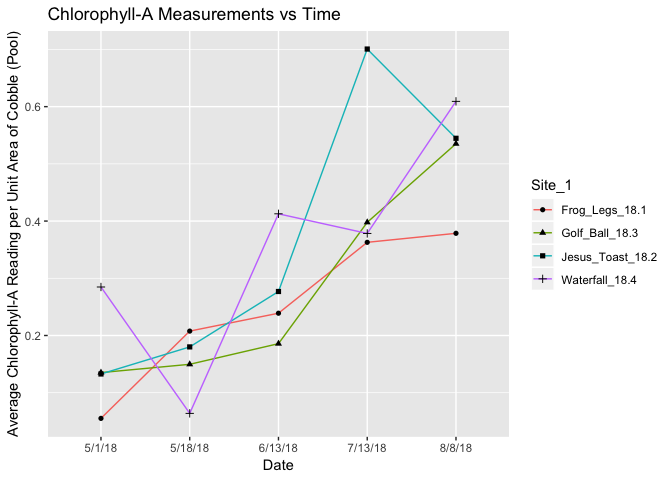
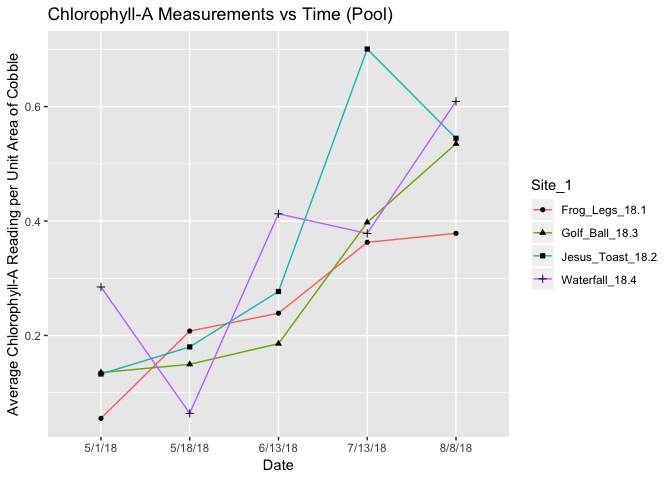
cleaning summary data

Changed region(s): [[0.0, 0.0625, 0.0312, 0.9062], [0.5, 0.0, 0.5938, 0.0625]]

diff --git a/SRF-2018-Code.md b/SRF-2018-Code.md
@@ -26,13 +26,13 @@ library(readr)
 library(tidyverse)
 ```
 
-    ## ── Attaching packages ───────────────────────────────────────────────────────────── tidyverse 1.2.1 ──
+    ## ── Attaching packages ───────────────────────────────────────────────────────────────── tidyverse 1.2.1 ──
 
     ## ✔ ggplot2 3.0.0     ✔ purrr   0.2.5
     ## ✔ tibble  1.4.2     ✔ stringr 1.3.1
     ## ✔ tidyr   0.8.1     ✔ forcats 0.3.0
 
-    ## ── Conflicts ──────────────────────────────────────────────────────────────── tidyverse_conflicts() ──
+    ## ── Conflicts ──────────────────────────────────────────────────────────────────── tidyverse_conflicts() ──
     ## ✖ dplyr::filter() masks stats::filter()
     ## ✖ dplyr::lag()    masks stats::lag()
 
@@ -76,41 +76,20 @@ ChlA_Data_Porter
     ## #   Total_Chla_extracted <dbl>, Total_Chla_in_Sample <dbl>,
     ## #   Chla_area <dbl>, Cobble_Area <dbl>, Notes <chr>
 
-Summarized ChlA Data (Pool)
----------------------------
+Summarized ChlA Data
+--------------------
 
 ``` r
 Summarized_ChlA_Data_Pool <- ChlA_Data_Porter %>%
   filter(Pool_or_Riffle == "pool") %>%
   group_by(Date_collected, Site_1) %>%
   summarise(mean_ChlA_area = mean(Chla_area))
-Summarized_ChlA_Data_Pool
-```
 
-    ## # A tibble: 20 x 3
-    ## # Groups:   Date_collected [?]
-    ##    Date_collected Site_1           mean_ChlA_area
-    ##    <chr>          <chr>                     <dbl>
-    ##  1 5/1/18         Frog_Legs_18.1           0.0551
-    ##  2 5/1/18         Golf_Ball_18.3           0.135 
-    ##  3 5/1/18         Jesus_Toast_18.2         0.133 
-    ##  4 5/1/18         Waterfall_18.4           0.285 
-    ##  5 5/18/18        Frog_Legs_18.1           0.208 
-    ##  6 5/18/18        Golf_Ball_18.3           0.150 
-    ##  7 5/18/18        Jesus_Toast_18.2         0.180 
-    ##  8 5/18/18        Waterfall_18.4           0.0639
-    ##  9 6/13/18        Frog_Legs_18.1           0.239 
-    ## 10 6/13/18        Golf_Ball_18.3           0.186 
-    ## 11 6/13/18        Jesus_Toast_18.2         0.277 
-    ## 12 6/13/18        Waterfall_18.4           0.413 
-    ## 13 7/13/18        Frog_Legs_18.1           0.363 
-    ## 14 7/13/18        Golf_Ball_18.3           0.398 
-    ## 15 7/13/18        Jesus_Toast_18.2         0.701 
-    ## 16 7/13/18        Waterfall_18.4           0.378 
-    ## 17 8/8/18         Frog_Legs_18.1           0.379 
-    ## 18 8/8/18         Golf_Ball_18.3           0.535 
-    ## 19 8/8/18         Jesus_Toast_18.2         0.545 
-    ## 20 8/8/18         Waterfall_18.4           0.609
+Summarized_ChlA_Data_Riffle <- ChlA_Data_Porter %>%
+  filter(Pool_or_Riffle == "riffle") %>%
+  group_by(Date_collected, Site_1) %>%
+  summarise(mean_ChlA_area = mean(Chla_area))
+```
 
 Plotting ChlA vs Time (Pool)
 ----------------------------
@@ -120,59 +99,27 @@ ChlA_Graph_Pool <- Summarized_ChlA_Data_Pool %>%
   ggplot(aes(x = Date_collected, y = mean_ChlA_area)) +
   geom_line(aes(group = Site_1, color = Site_1)) +
   geom_point(aes(shape = Site_1)) +
-  labs(x = "Date", y = "Average Chlorophyll-A Reading per Unit Area of Cobble (Pool)") +
-  ggtitle("Chlorophyll-A Measurements vs Time")
+  labs(x = "Date", y = "Average Chlorophyll-A Reading per Unit Area of Cobble") +
+  ggtitle("Chlorophyll-A Measurements vs Time (Pool)")
 ChlA_Graph_Pool
 ```
 
 ![](SRF-2018-Code_files/figure-markdown_github/unnamed-chunk-4-1.png)
 
-Summarized ChlA Data (Riffe)
-----------------------------
-
-``` r
-Summarized_ChlA_Data_Pool <- ChlA_Data_Porter %>%
-  filter(Pool_or_Riffle == "riffle") %>%
-  group_by(Date_collected, Site_1) %>%
-  summarise(mean_ChlA_area = mean(Chla_area))
-Summarized_ChlA_Data_Pool
-```
-
-    ## # A tibble: 16 x 3
-    ## # Groups:   Date_collected [?]
-    ##    Date_collected Site_1           mean_ChlA_area
-    ##    <chr>          <chr>                     <dbl>
-    ##  1 5/1/18         Frog_Legs_18.1           0.724 
-    ##  2 5/1/18         Golf_Ball_18.3           0.325 
-    ##  3 5/1/18         Jesus_Toast_18.2         0.284 
-    ##  4 5/1/18         Waterfall_18.4           0.125 
-    ##  5 5/18/18        Frog_Legs_18.1           0.281 
-    ##  6 5/18/18        Golf_Ball_18.3           0.0815
-    ##  7 5/18/18        Jesus_Toast_18.2         0.135 
-    ##  8 5/18/18        Waterfall_18.4           0.108 
-    ##  9 6/13/18        Frog_Legs_18.1           0.234 
-    ## 10 6/13/18        Golf_Ball_18.3           0.341 
-    ## 11 6/13/18        Jesus_Toast_18.2         0.323 
-    ## 12 6/13/18        Waterfall_18.4           0.0853
-    ## 13 7/13/18        Frog_Legs_18.1           0.261 
-    ## 14 7/13/18        Golf_Ball_18.3           0.371 
-    ## 15 7/13/18        Jesus_Toast_18.2         0.392 
-    ## 16 7/13/18        Waterfall_18.4           0.200
-
 Plotting ChlA vs Time (Riffle)
 ------------------------------
 
 ``` r
-ChlA_Graph_Pool <- Summarized_ChlA_Data_Pool %>%
+ChlA_Graph_Riffle <- Summarized_ChlA_Data_Riffle %>%
   ggplot(aes(x = Date_collected, y = mean_ChlA_area)) +
   geom_line(aes(group = Site_1, color = Site_1)) +
   geom_point(aes(shape = Site_1)) +
-  labs(x = "Date", y = "Average Chlorophyll-A Reading per Unit Area of Cobble (Riffle)") +
-  ggtitle("Chlorophyll-A Measurements vs Time")
-ChlA_Graph_Pool
+  labs(x = "Date", y = "Average Chlorophyll-A Reading per Unit Area of Cobble") +
+  ggtitle("Chlorophyll-A Measurements vs Time (Riffle)")
+ChlA_Graph_Riffle
 ```
 
-![](SRF-2018-Code_files/figure-markdown_github/unnamed-chunk-6-1.png)
+![](SRF-2018-Code_files/figure-markdown_github/unnamed-chunk-5-1.png)
 
 AFD Data
 ========
@@ -228,33 +175,13 @@ Summarized_AFD_Data_Pool <- AFD_Data_Porter %>%
   filter(!AFD_Weight_g == "NA") %>%
   group_by(Date_collected, Site_1) %>%
   summarise(mean_diff = mean(Difference))
-Summarized_AFD_Data_Pool
-```
 
-    ## # A tibble: 20 x 3
-    ## # Groups:   Date_collected [?]
-    ##    Date_collected Site_1           mean_diff
-    ##    <chr>          <chr>                <dbl>
-    ##  1 5/1/18         Frog_Legs_18.1     0.00155
-    ##  2 5/1/18         Golf_Ball_18.3     0.00225
-    ##  3 5/1/18         Jesus_Toast_18.2   0.0022 
-    ##  4 5/1/18         Waterfall_18.4     0.0025 
-    ##  5 5/18/18        Frog_Legs_18.1     0.00350
-    ##  6 5/18/18        Golf_Ball_18.3     0.00215
-    ##  7 5/18/18        Jesus_Toast_18.2   0.00295
-    ##  8 5/18/18        Waterfall_18.4     0.0024 
-    ##  9 6/13/18        Frog_Legs_18.1     0.003  
-    ## 10 6/13/18        Golf_Ball_18.3     0.0009 
-    ## 11 6/13/18        Jesus_Toast_18.2   0.0017 
-    ## 12 6/13/18        Waterfall_18.4     0.0049 
-    ## 13 7/13/18        Frog_Legs_18.1     0.00365
-    ## 14 7/13/18        Golf_Ball_18.3     0.00375
-    ## 15 7/13/18        Jesus_Toast_18.2   0.00795
-    ## 16 7/13/18        Waterfall_18.4     0.00535
-    ## 17 8/8/18         Frog_Legs_18.1     0.00315
-    ## 18 8/8/18         Golf_Ball_18.3     0.0024 
-    ## 19 8/8/18         Jesus_Toast_18.2   0.00445
-    ## 20 8/8/18         Waterfall_18.4     0.00445
+Summarized_AFD_Data_Riffle <- AFD_Data_Porter %>%
+  filter(Pool_or_Riffle == "riffle") %>%
+  filter(!AFD_Weight_g == "NA") %>%
+  group_by(Date_collected, Site_1) %>%
+  summarise(mean_diff = mean(Difference))
+```
 
 Plotting AFD vs Time (Pool)
 ---------------------------
@@ -269,55 +196,22 @@ AFD_Graph_Pool <- Summarized_AFD_Data_Pool %>%
 AFD_Graph_Pool
 ```
 
-![](SRF-2018-Code_files/figure-markdown_github/unnamed-chunk-9-1.png)
-
-Summarizing AFD Data (Riffle)
------------------------------
-
-``` r
-Summarized_AFD_Data_Pool <- AFD_Data_Porter %>%
-  filter(Pool_or_Riffle == "riffle") %>%
-  filter(!AFD_Weight_g == "NA") %>%
-  group_by(Date_collected, Site_1) %>%
-  summarise(mean_diff = mean(Difference))
-Summarized_AFD_Data_Pool
-```
-
-    ## # A tibble: 16 x 3
-    ## # Groups:   Date_collected [?]
-    ##    Date_collected Site_1           mean_diff
-    ##    <chr>          <chr>                <dbl>
-    ##  1 5/1/18         Frog_Legs_18.1     0.00645
-    ##  2 5/1/18         Golf_Ball_18.3     0.0022 
-    ##  3 5/1/18         Jesus_Toast_18.2   0.00235
-    ##  4 5/1/18         Waterfall_18.4     0.002  
-    ##  5 5/18/18        Frog_Legs_18.1     0.00225
-    ##  6 5/18/18        Golf_Ball_18.3     0.00165
-    ##  7 5/18/18        Jesus_Toast_18.2   0.0027 
-    ##  8 5/18/18        Waterfall_18.4     0.00235
-    ##  9 6/13/18        Frog_Legs_18.1     0.0012 
-    ## 10 6/13/18        Golf_Ball_18.3     0.00355
-    ## 11 6/13/18        Jesus_Toast_18.2   0.0008 
-    ## 12 6/13/18        Waterfall_18.4     0.0115 
-    ## 13 7/13/18        Frog_Legs_18.1     0.0046 
-    ## 14 7/13/18        Golf_Ball_18.3     0.004  
-    ## 15 7/13/18        Jesus_Toast_18.2   0.00625
-    ## 16 7/13/18        Waterfall_18.4     0.00245
+![](SRF-2018-Code_files/figure-markdown_github/unnamed-chunk-8-1.png)
 
 Plotting AFD vs Time (Riffle)
 -----------------------------
 
 ``` r
-AFD_Graph_Pool <- Summarized_AFD_Data_Pool %>%
+AFD_Graph_Riffle <- Summarized_AFD_Data_Riffle %>%
   ggplot(aes(x = Date_collected, y = mean_diff)) +
   geom_line(aes(group = Site_1, color = Site_1)) +
   geom_point(aes(shape = Site_1)) +
   labs(x = "Date", y = "Average Chlorophyll Mass Collected per Cobble") +
   ggtitle("Ash Free Dry Mass Measurements vs Time (Riffle)")
-AFD_Graph_Pool
+AFD_Graph_Riffle
 ```
 
-![](SRF-2018-Code_files/figure-markdown_github/unnamed-chunk-11-1.png)
+![](SRF-2018-Code_files/figure-markdown_github/unnamed-chunk-9-1.png)
 
 Dissolved Oxygen Data
 =====================
@@ -363,9 +257,8 @@ Dissolved Oxygen (Pool)
 -----------------------
 
 ``` r
-DO_Data_Porter_Pool <- DO_Data_Porter %>%
-  filter(Pool_Riffle == "P") %>%
-  group_by(Stream, Date, Site_Name, Site_Num, Pool_Riffle) %>%
+MaxDepth_DO_Data_Porter_Pool <- DO_Data_Porter %>%
+  group_by(Stream, Date, Site_Name, Site_Num) %>%
   summarise(Max_Depth_DO = mean(Max_Depth_DO), Light_Do_s = mean(Light_Do_s), Light_DO_e = mean(Light_DO_e), Dark_Do_s = mean(Dark_Do_s), Dark_DO_e = mean(Dark_DO_e)) %>%
   arrange(Date, Site_Num)
 ```
@@ -431,45 +324,44 @@ DO_Data_Porter_Pool <- DO_Data_Porter %>%
     ## returning NA
 
 ``` r
-DO_Data_Porter_Pool
+MaxDepth_DO_Data_Porter_Pool
 ```
 
-    ## # A tibble: 20 x 10
-    ## # Groups:   Stream, Date, Site_Name, Site_Num [20]
-    ##    Stream Date  Site_Name Site_Num Pool_Riffle Max_Depth_DO Light_Do_s
-    ##    <chr>  <chr> <chr>        <dbl> <chr>              <dbl>      <dbl>
-    ##  1 Porter 5/1/… Frog_Legs     18.1 P                  10.4       10.6 
-    ##  2 Porter 5/1/… Jesus_To…     18.2 P                  10.1       10.5 
-    ##  3 Porter 5/1/… Golf_Ball     18.3 P                  10.0       10.5 
-    ##  4 Porter 5/1/… Waterfall     18.4 P                   9.90      10.4 
-    ##  5 Porter 5/18… Frog_Legs     18.1 P                  10.2       10.3 
-    ##  6 Porter 5/18… Jesus_To…     18.2 P                   9.92      10.0 
-    ##  7 Porter 5/18… Golf_Ball     18.3 P                   9.65       9.89
-    ##  8 Porter 5/18… Waterfall     18.4 P                   9.52       9.62
-    ##  9 Porter 6/13… Frog_Legs     18.1 P                  10.3       10.0 
-    ## 10 Porter 6/13… Jesus_To…     18.2 P                  10.3       10.0 
-    ## 11 Porter 6/13… Golf_Ball     18.3 P                  10.3       10.8 
-    ## 12 Porter 6/13… Waterfall     18.4 P                   8.31      10.4 
-    ## 13 Porter 7/13… Frog_Legs     18.1 P                   7.84       7.76
-    ## 14 Porter 7/13… Jesus_To…     18.2 P                   8.51       7.94
-    ## 15 Porter 7/13… Golf_Ball     18.3 P                  10.8       10.7 
-    ## 16 Porter 7/13… Waterfall     18.4 P                   7.60       6.68
-    ## 17 Porter 8/8/… Frog_Legs     18.1 P                   3.17       4.34
-    ## 18 Porter 8/8/… Jesus_To…     18.2 P                   7.90       8.68
-    ## 19 Porter 8/8/… Golf_Ball     18.3 P                   5.83       6.30
-    ## 20 Porter 8/8/… Waterfall     18.4 P                   9.33       9.46
-    ## # ... with 3 more variables: Light_DO_e <dbl>, Dark_Do_s <dbl>,
-    ## #   Dark_DO_e <dbl>
+    ## # A tibble: 20 x 9
+    ## # Groups:   Stream, Date, Site_Name [20]
+    ##    Stream Date  Site_Name Site_Num Max_Depth_DO Light_Do_s Light_DO_e
+    ##    <chr>  <chr> <chr>        <dbl>        <dbl>      <dbl>      <dbl>
+    ##  1 Porter 5/1/… Frog_Legs     18.1        10.4       10.5       11.1 
+    ##  2 Porter 5/1/… Jesus_To…     18.2        10.1       10.5       11.4 
+    ##  3 Porter 5/1/… Golf_Ball     18.3        10.0       10.5       11.3 
+    ##  4 Porter 5/1/… Waterfall     18.4         9.90      10.3       11.7 
+    ##  5 Porter 5/18… Frog_Legs     18.1        10.2       10.3       10.5 
+    ##  6 Porter 5/18… Jesus_To…     18.2         9.92      10         10.4 
+    ##  7 Porter 5/18… Golf_Ball     18.3         9.65       9.84      10.3 
+    ##  8 Porter 5/18… Waterfall     18.4         9.52       9.62       9.96
+    ##  9 Porter 6/13… Frog_Legs     18.1        10.3       10.0       10.2 
+    ## 10 Porter 6/13… Jesus_To…     18.2        10.3       10.0       10.9 
+    ## 11 Porter 6/13… Golf_Ball     18.3        10.3       10.8       11.5 
+    ## 12 Porter 6/13… Waterfall     18.4         8.31      10.4       10.9 
+    ## 13 Porter 7/13… Frog_Legs     18.1         7.84       7.72       8.34
+    ## 14 Porter 7/13… Jesus_To…     18.2         8.51       7.96       9.44
+    ## 15 Porter 7/13… Golf_Ball     18.3        10.8       10.6       11.7 
+    ## 16 Porter 7/13… Waterfall     18.4         7.60       6.77       8.12
+    ## 17 Porter 8/8/… Frog_Legs     18.1         3.17       4.34       6.02
+    ## 18 Porter 8/8/… Jesus_To…     18.2         7.90       8.68       9.65
+    ## 19 Porter 8/8/… Golf_Ball     18.3         5.83       6.30       6.96
+    ## 20 Porter 8/8/… Waterfall     18.4         9.33       9.46      10.5 
+    ## # ... with 2 more variables: Dark_Do_s <dbl>, Dark_DO_e <dbl>
 
 Plotting Max Depth DO (Pool)
 ----------------------------
 
 ``` r
-DO_Graph_Pool <- DO_Data_Porter_Pool %>%
+DO_Graph_Pool <- MaxDepth_DO_Data_Porter_Pool %>%
   ggplot(aes(Date, Max_Depth_DO)) +
   geom_line(aes(group = Site_Name, color = Site_Name)) +
   geom_point(aes(shape = Site_Name))
 DO_Graph_Pool
 ```
 
-![](SRF-2018-Code_files/figure-markdown_github/unnamed-chunk-14-1.png)
+![](SRF-2018-Code_files/figure-markdown_github/unnamed-chunk-12-1.png)
